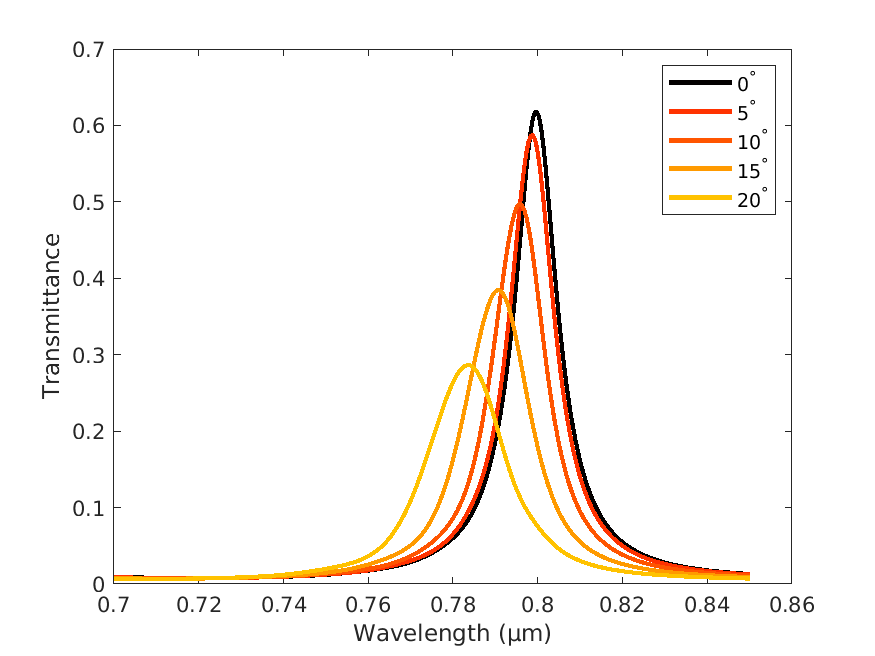
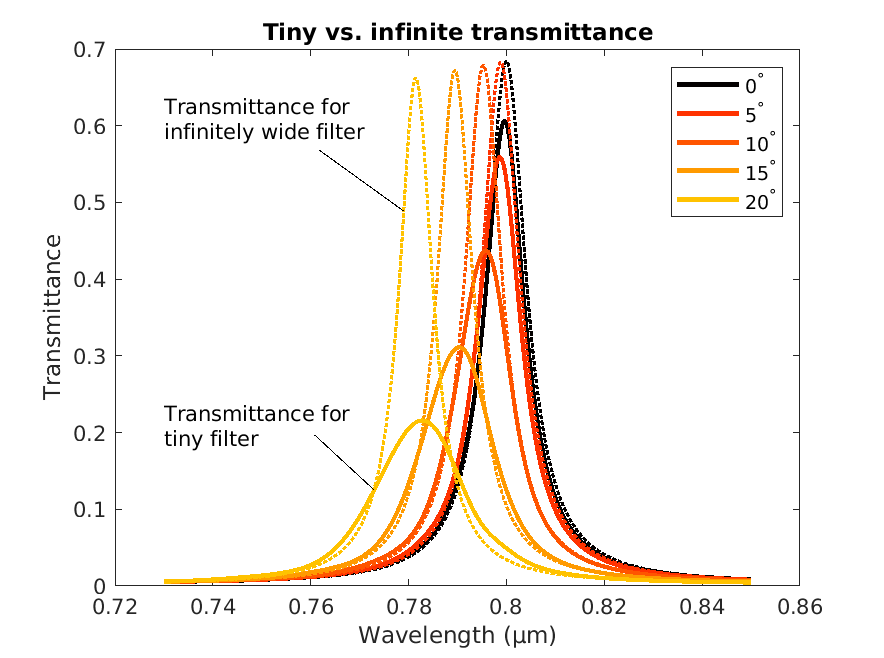
new image

diff --git a/examples/example_fabryperot.m b/examples/example_fabryperot.m
@@ -68,10 +68,24 @@ color{5}=cmap(round(0.66*s),:)
 figure(1);clf;  hold on;
 for a=1:numel(angles)
     htiny(a)=plot(wavelengths,T(:,a),'color',color{a},'linewidth',2)
-    hclassic=plot(wavelengths,Tclassic(:,a),':','color',color{a},'linewidth',1)
+    hclassic=plot(wavelengths,Tclassic(:,a),':','color',color{a},'linewidth',1.5)
 end
-legend([htiny hclassic],'0^\circ','5^\circ','10^\circ','15^\circ','20^\circ','T_\infty')
-%ylim([0 1])
+
+
+
+
+%% Labeling
+
+text(0.73,0.6092,sprintf('Transmittance for\ninfinitely wide filter'))
+line( [0.7617   0.7790],[ 0.5684    0.4888],'color','k')
+
+text(0.73,0.2092,sprintf('Transmittance for\ntiny filter'))
+line( [ 0.7608    0.7729],[  0.1969    0.1255],'color','k')
+
+legend([htiny],'0^\circ','5^\circ','10^\circ','15^\circ','20^\circ')
+
+
+
 ylabel('Transmittance')
 xlabel('Wavelength (µm)')
 title('Tiny vs. infinite transmittance')

diff --git a/core/classictransmittance.m b/core/classictransmittance.m
@@ -15,6 +15,12 @@ function [T,R,t,r] = classictransmittance(filter,angledeg,wavelengths,polarizati
 %    - r (Wx1):  Reflection coefficient of the filter
 %    
 %  See also TINYTRANSMITTANCE, TINYFILTER    
+%    
+%  The method implemented can be found in
+%    Lequime, M., and Amra, C. De l’Optique électromagnétique à
+% l’Interférométrie-Concepts et illustrations: Concepts et illustrations. EDP
+%  Sciences, 2013
+%    
 %  Copyright Thomas Goossens  
 %  http://github.com/tgoossens
 
@@ -37,7 +43,7 @@ function [T,R,t,r] = classictransmittance(filter,angledeg,wavelengths,polarizati
         
         
         % Transmittance and Reflectance can be calculated form transmission and reflecction coefficients
-        T(w) = real(eta_sub./eta_in .*  conj(t)*t);
+        T(w) = real(eta_sub)./real(eta_in) .*  conj(t)*t;
         R(w) = conj(r)*r;
         
     end

diff --git a/core/tinytransmittance_core.m b/core/tinytransmittance_core.m
@@ -51,7 +51,7 @@ eta_sub=eta(numel(filter.n));
 for j=1:numel(wl)
     %%%%%%%%%% WAVE AMPLITUDES %%%%%%%%%%%%
     % Incident wwave
-    Ain(:,j) = width*sinca(pi*width*(nu-filter.n(1)*sin(anglerad)/wl(j))); ...
+    Ain(:,j) = width*sinca(pi*width*(nu-filter.n(1)*sin(anglerad)/wl(j))); 
     
     % Useful integration domain;. This conditions corresponds to ignore incidence angles larger than 90 degres.
     domain = abs(nu).*wl(j) <=1;
@@ -68,8 +68,8 @@ for j=1:numel(wl)
 
     
     % Transmitted flux
-    Phi_t(j)=real(trapz(nu,eta_sub(:,j).*At(:,j).*fftshift(ifft(fft(conj(At(:,j))).* ...
-                                                      fftpix))));
+    temp=real(eta_sub(:,j).*At(:,j).*fftshift(ifft(fft(conj(At(:,j))).*fftpix)));
+    Phi_t(j)=trapz(nu,temp); 
     
 end
 

diff --git a/core/pixelkernels/pixel_partialwidth.m b/core/pixelkernels/pixel_partialwidth.m
@@ -24,11 +24,11 @@ function  kernel = pixel_partialwidth(startpos,endpos)
 % 
 %  Copyright Thomas Goossens
 
-    kernel = @K
+    kernel = @K;
     
     function k = K(nu)
         
-       k = 1i *(exp(-2*pi*1i*v*endpos)-exp(-2*pi*1i*v*startpos))./(2*pi*v);       
+       k = 1i *(exp(2*pi*1i*nu*endpos)-exp(2*pi*1i*nu*startpos))./(2*pi*nu);       
        
        % When zero, return the asymptotic limit
        k(nu==0) =  (endpos-startpos);

diff --git a/core/admittance.m b/core/admittance.m
@@ -39,7 +39,7 @@ function eta = admittance(n,wl,nu,polarization)
     end
 
     if(polarization=='p')
-        eta = @(j) n(j).*eta0.*k(j)./(alpha(j)+eps);%p polarization
+        eta = @(j) n(j).*eta0.*k(j)./(alpha(j));%p polarization
     end
 
 
